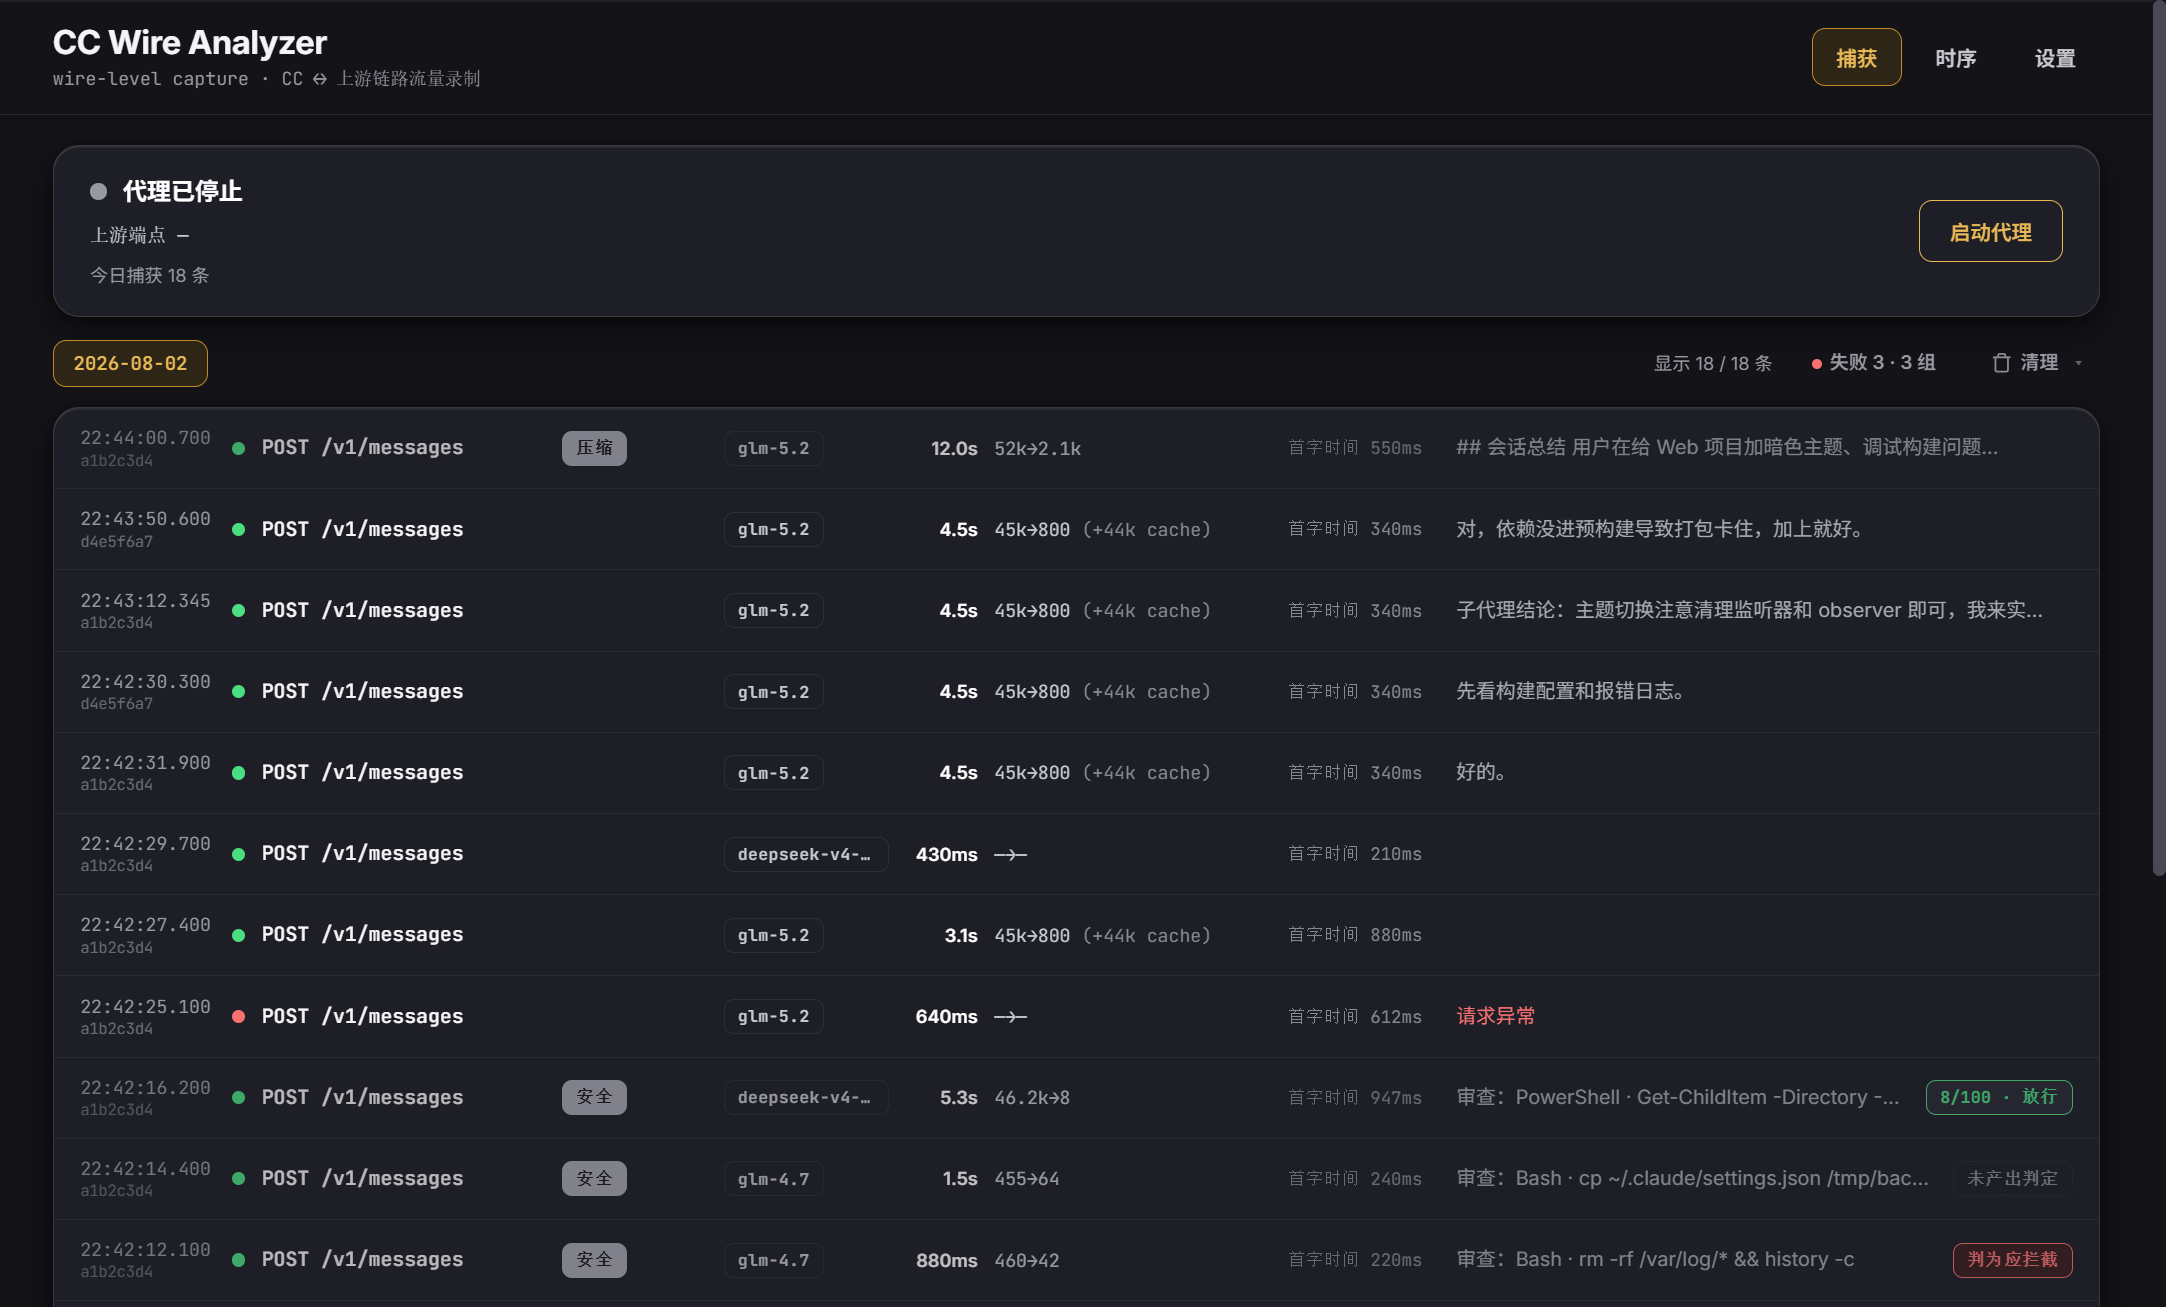
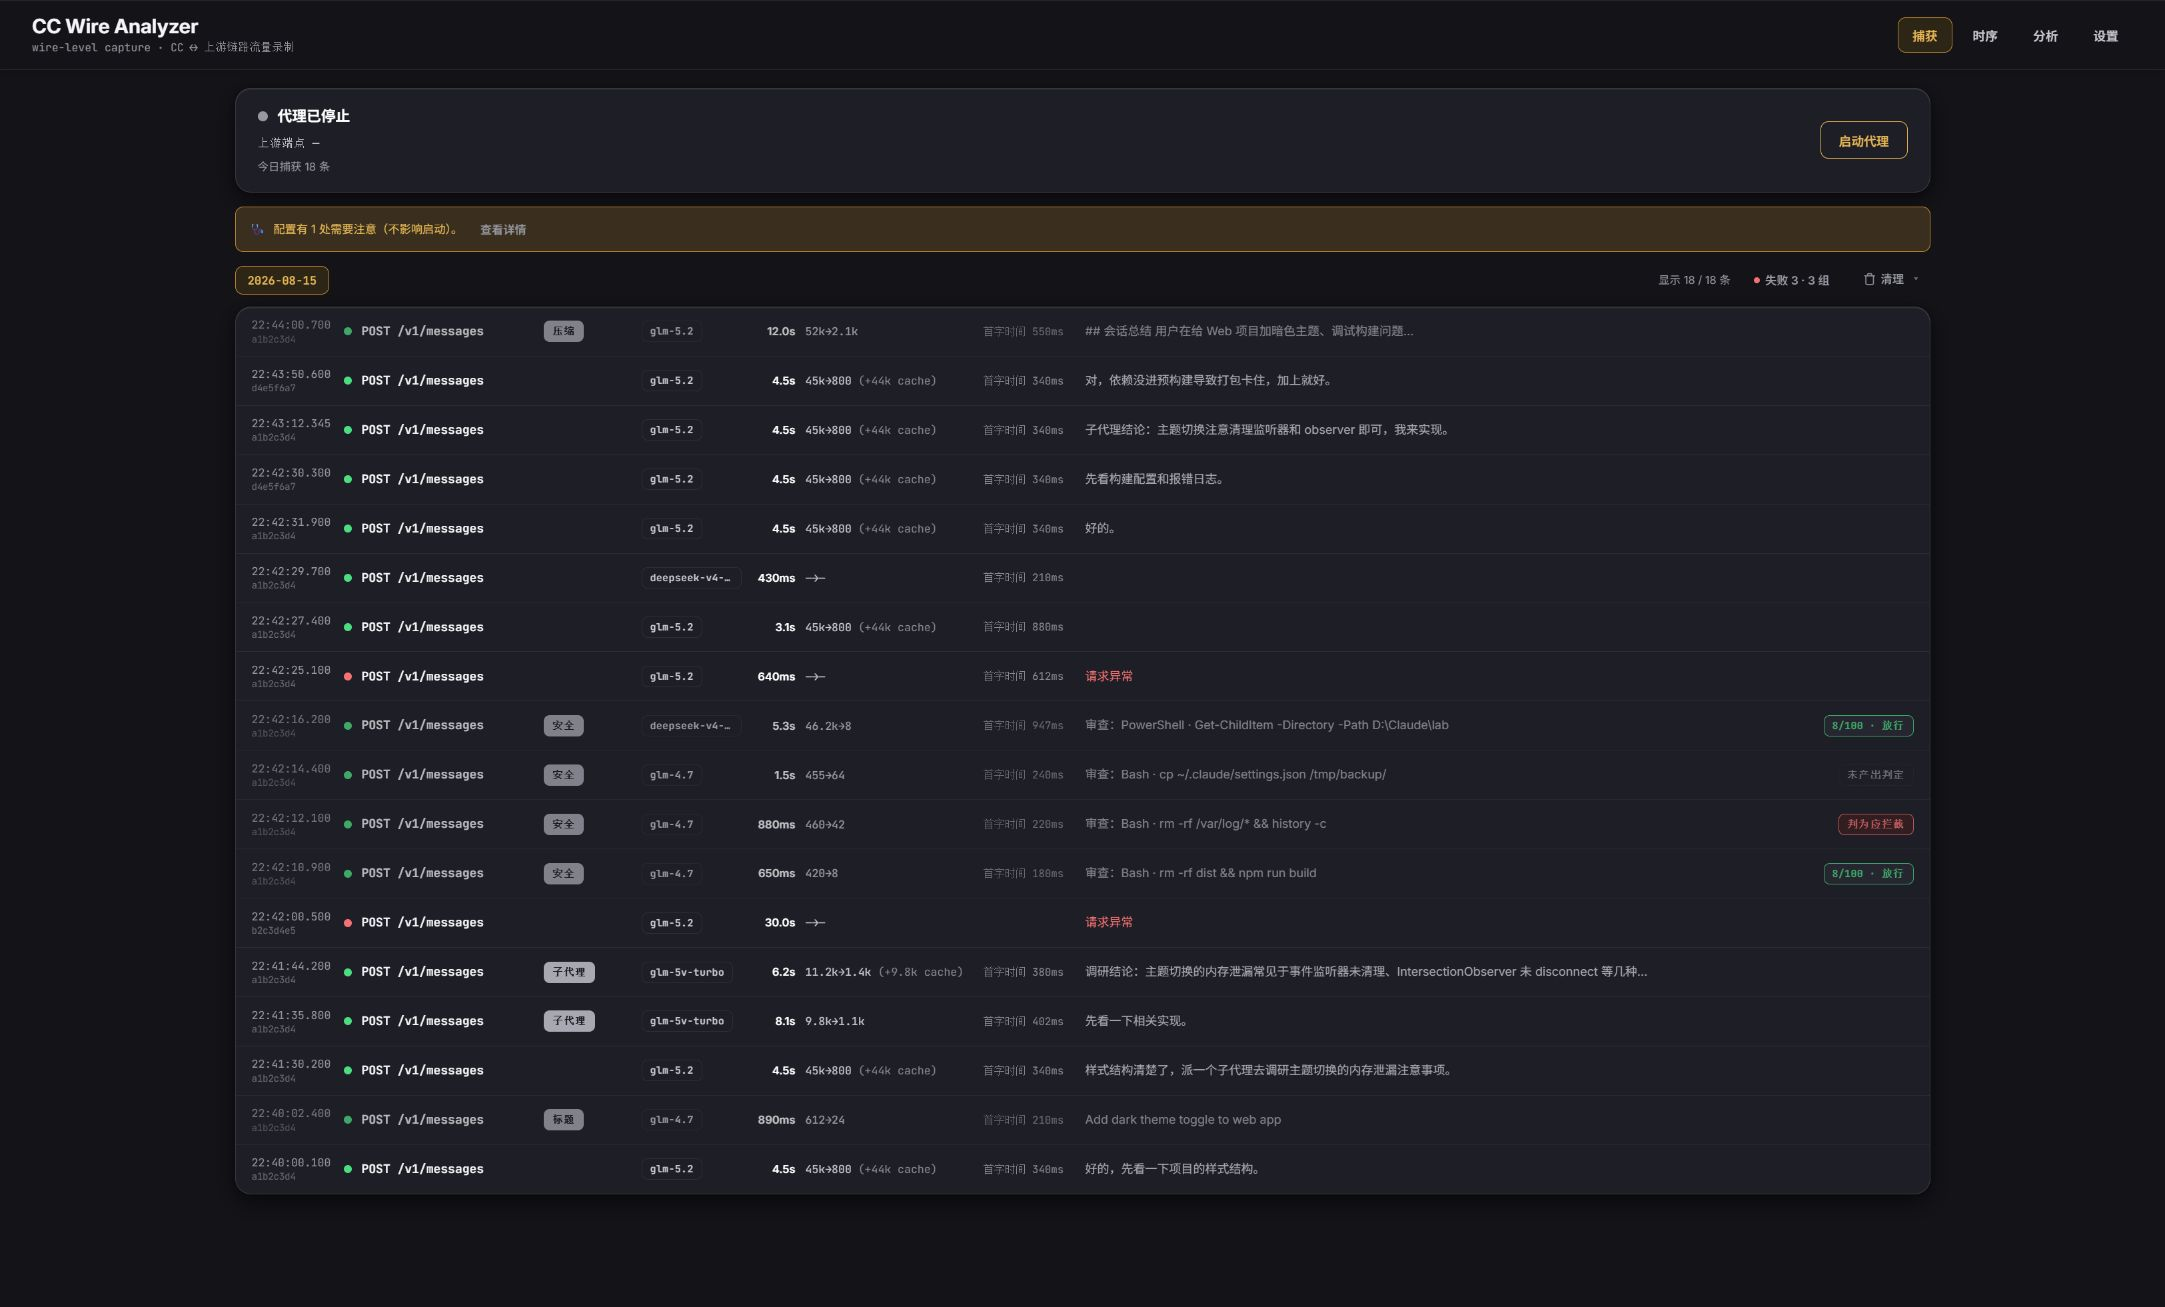
docs(site): show capture detail screenshots

diff --git a/site/index.html b/site/index.html
@@ -126,11 +126,18 @@
 
     <section class="proof-strip" aria-label="Product screenshot">
       <div class="shell">
-        <div class="product-frame">
-          <img src="assets/screenshots/captures-en.png" alt="CC Wire Analyzer capture list showing Claude Code requests, models, latency, token counts and failed calls" width="2166" height="1307" fetchpriority="high">
+        <div class="capture-proof-grid">
+          <figure class="product-frame">
+            <img src="assets/screenshots/captures-en.png" alt="CC Wire Analyzer capture list showing Claude Code requests, models, latency, token counts and failed calls" width="2166" height="1307" fetchpriority="high">
+            <figcaption class="capture-proof-label">Capture list: requests, latency, tokens and failures</figcaption>
+          </figure>
+          <figure class="product-frame">
+            <img src="assets/screenshots/capture-detail-en.png" alt="CC Wire Analyzer capture detail with expanded system and thinking blocks" width="2166" height="1307" loading="lazy">
+            <figcaption class="capture-proof-label">Capture detail: expand System / thinking and inspect the original text</figcaption>
+          </figure>
         </div>
         <div class="proof-caption">
-          <strong>A real capture list — requests, hidden classifiers, latency, failures and tokens in one place.</strong>
+          <strong>From the capture list to one request’s detail — inspect thinking, prompts, tools and failures in context.</strong>
           <span>dark professional theme · recordings remain local</span>
         </div>
       </div>

diff --git a/site/zh/index.html b/site/zh/index.html
@@ -126,11 +126,18 @@
 
     <section class="proof-strip" aria-label="产品截图">
       <div class="shell">
-        <div class="product-frame">
-          <img src="../assets/screenshots/captures-zh.png" alt="CC Wire Analyzer 捕获列表，显示 Claude Code 请求、模型、延迟、Token 与失败调用" width="2166" height="1307" fetchpriority="high">
+        <div class="capture-proof-grid">
+          <figure class="product-frame">
+            <img src="../assets/screenshots/captures-zh.png" alt="CC Wire Analyzer 中文录制列表，显示 Claude Code 请求、模型、延迟、Token 与失败调用" width="2166" height="1307" fetchpriority="high">
+            <figcaption class="capture-proof-label">录制列表：按日期查看请求、延迟、Token 与失败</figcaption>
+          </figure>
+          <figure class="product-frame">
+            <img src="../assets/screenshots/capture-detail-zh.png" alt="CC Wire Analyzer 录制详情，展开 System 与 thinking，并显示中文翻译结果" width="2158" height="1303" loading="lazy">
+            <figcaption class="capture-proof-label">录制详情：展开 System / thinking，原文旁显示中文翻译</figcaption>
+          </figure>
         </div>
         <div class="proof-caption">
-          <strong>从列表进入详情：把 thinking 和提示词翻译成看得懂的内容。</strong>
+          <strong>从录制列表进入详情：把 thinking、System 和提示词翻译成看得懂的内容。</strong>
           <span>原文可回看 · 深色专业主题 · 默认只留本机</span>
         </div>
       </div>

diff --git a/site/assets/site.css b/site/assets/site.css
@@ -607,6 +607,25 @@ a {
   height: auto;
 }
 
+.capture-proof-grid {
+  display: grid;
+  gap: 18px;
+  grid-template-columns: 1fr;
+}
+
+.capture-proof-grid figure {
+  margin: 0;
+}
+
+.capture-proof-label {
+  display: block;
+  padding: 11px 14px 13px;
+  border-top: 1px solid var(--line);
+  color: var(--muted);
+  font-family: var(--mono);
+  font-size: 11px;
+}
+
 .proof-caption {
   display: flex;
   align-items: center;
@@ -1067,6 +1086,10 @@ a {
 
   .proof-strip {
     padding-bottom: 66px;
+  }
+
+  .capture-proof-grid {
+    grid-template-columns: 1fr;
   }
 
   .proof-caption {
